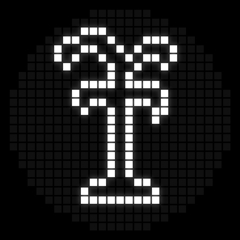
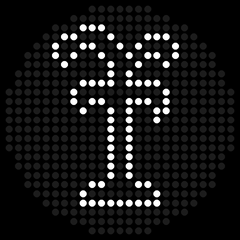
Landing e README: Glyph Toy a LED quadrati (dadi d20 e d6), mazzo a punti tondi

diff --git a/app/src/test/java/mattiagiordano/sorte/PresentazioneTest.kt b/app/src/test/java/mattiagiordano/sorte/PresentazioneTest.kt
@@ -66,6 +66,14 @@ class PresentazioneTest {
             val settle = Scripts.diceSettle(20, 17)
             write("04_dadi_d20", still + shake + settle + hold(settle.last().frame, 1.5))
         }
+        // DADI: il d6 (per alternarlo al d20 nella landing)
+        run {
+            val t = DiceArt.Tumbler()
+            val still = hold(DiceArt.idle(6), 1.5)
+            val shake = List(24) { i -> Step(55, DiceArt.tumble(6, t.next()), sound = if (Rng.random.nextDouble() < 0.4) Sfx.DADI_CLIC else null) }
+            val settle = Scripts.diceSettle(6, 4)
+            write("04_dadi_d6", still + shake + settle + hold(settle.last().frame, 1.5))
+        }
         // GALLERIA dei simboli (per foto)
         File(dir, "05_simboli.txt").writeText(
             File(dir, "icone.txt").readLines().joinToString("\n") { l -> l.substringBefore("\t") + "\t-\t" + l.substringAfter("\t") })

diff --git a/tools/landing_media.py b/tools/landing_media.py
@@ -1,0 +1,73 @@
+"""Immagini della landing e del README (docs/media/). Regola:
+- Glyph Toy (il retro del telefono): LED QUADRATI con alone → GIF closed_*, open, dice;
+- tutto il resto (app, web, mazzo): PUNTI TONDI come nella matrice dell'app → sym_*.png.
+Uso: ./gradlew :app:testDebugUnitTest --tests '*PresentazioneTest*' && python3 tools/landing_media.py"""
+import os
+from PIL import Image, ImageDraw
+
+R = os.path.dirname(os.path.dirname(os.path.abspath(__file__)))
+SRC = f"{R}/app/build/presentazione"; OUT = f"{R}/docs/media"
+N, FULL, SS = 25, 4095, 3                      # SS = sovracampionamento per cerchi morbidi
+inside = lambda x, y: (x - 12) ** 2 + (y - 12) ** 2 <= 156
+
+def render(px, size=400):
+    """Come la matrice dell'app: sfondo nero, punti tondi, spenti grigio scuro (#1C1C1C), accesi fino al bianco."""
+    S = size * SS; img = Image.new("L", (S, S), 0); d = ImageDraw.Draw(img)
+    pitch = S / (N + 1); r = pitch * 0.36
+    for y in range(N):
+        for x in range(N):
+            if not inside(x, y): continue
+            v = px[y * N + x] / FULL; l = round(28 + (255 - 28) * v)
+            cx = pitch * (x + 1); cy = pitch * (y + 1)
+            d.ellipse((cx - r, cy - r, cx + r, cy + r), fill=l)
+    return img.resize((size, size), Image.LANCZOS)
+
+def render_square(px, size=400):
+    """Come il retro del telefono (Glyph Matrix): LED quadrati con un leggero alone di luce."""
+    import numpy as np
+    from PIL import ImageFilter
+    S = size * SS; cell = S / (N + 2); led = cell * 0.8; off = (cell - led) / 2
+    lit = Image.new("L", (S, S), 0); dl = ImageDraw.Draw(lit); base = Image.new("L", (S, S), 0); db = ImageDraw.Draw(base)
+    for y in range(N):
+        for x in range(N):
+            if not inside(x, y): continue
+            x0 = cell * (x + 1) + off; y0 = cell * (y + 1) + off
+            db.rectangle((x0, y0, x0 + led, y0 + led), fill=16)
+            v = px[y * N + x] * 255 // FULL
+            if v: dl.rectangle((x0, y0, x0 + led, y0 + led), fill=v)
+    glow = lit.filter(ImageFilter.GaussianBlur(S / 90))
+    a = np.maximum(np.asarray(base, float), np.asarray(lit, float)) + np.asarray(glow, float) * 0.45
+    return Image.fromarray(np.clip(a, 0, 255).astype(np.uint8)).resize((size, size), Image.LANCZOS)
+
+def rows(name):
+    out = []
+    for line in open(f"{SRC}/{name}.txt"):
+        t, _, data = line.rstrip("\n").split("\t"); out.append((int(t), [int(v) for v in data.split(",")]))
+    return out
+
+def gif(names, path, size=400, min_ms=40, draw=None):
+    draw = draw or render
+    frames, durs = [], []
+    for name in names:
+        rs = rows(name)
+        for i, (t, px) in enumerate(rs):
+            dur = (rs[i + 1][0] - t) if i + 1 < len(rs) else 1500
+            if frames and px == frames[-1][0]: durs[-1] += dur; continue
+            frames.append((px, None)); durs.append(dur)
+    # fotogrammi troppo brevi per una GIF: si accorpano al precedente
+    out, od = [], []
+    for (px, _), d in zip(frames, durs):
+        if out and od[-1] < min_ms: out[-1] = px; od[-1] += d
+        else: out.append(px); od.append(d)
+    imgs = [draw(px, size) for px in out]
+    imgs[0].save(path, save_all=True, append_images=imgs[1:], duration=[max(min_ms, int(d)) for d in od], loop=0, optimize=True)
+    print(os.path.basename(path), len(imgs), "fotogrammi", os.path.getsize(path) // 1024, "KB")
+
+if "--tutto" in __import__("sys").argv: gif(["01_oracolo_chiuso_EN"], f"{OUT}/closed_en.gif", draw=render_square)
+if "--tutto" in __import__("sys").argv: gif(["01_oracolo_chiuso"], f"{OUT}/closed_it.gif", draw=render_square)
+if "--tutto" in __import__("sys").argv: gif(["03_oracolo_aperto"], f"{OUT}/open.gif", draw=render_square)
+gif(["04_dadi_d20", "04_dadi_d6"], f"{OUT}/dice.gif", draw=render_square)
+for line in open(f"{SRC}/05_simboli.txt"):
+    n, _, data = line.rstrip("\n").split("\t")
+    render([int(v) for v in data.split(",")], 240).save(f"{OUT}/sym_{n}.png", optimize=True)
+print("simboli: ok")
